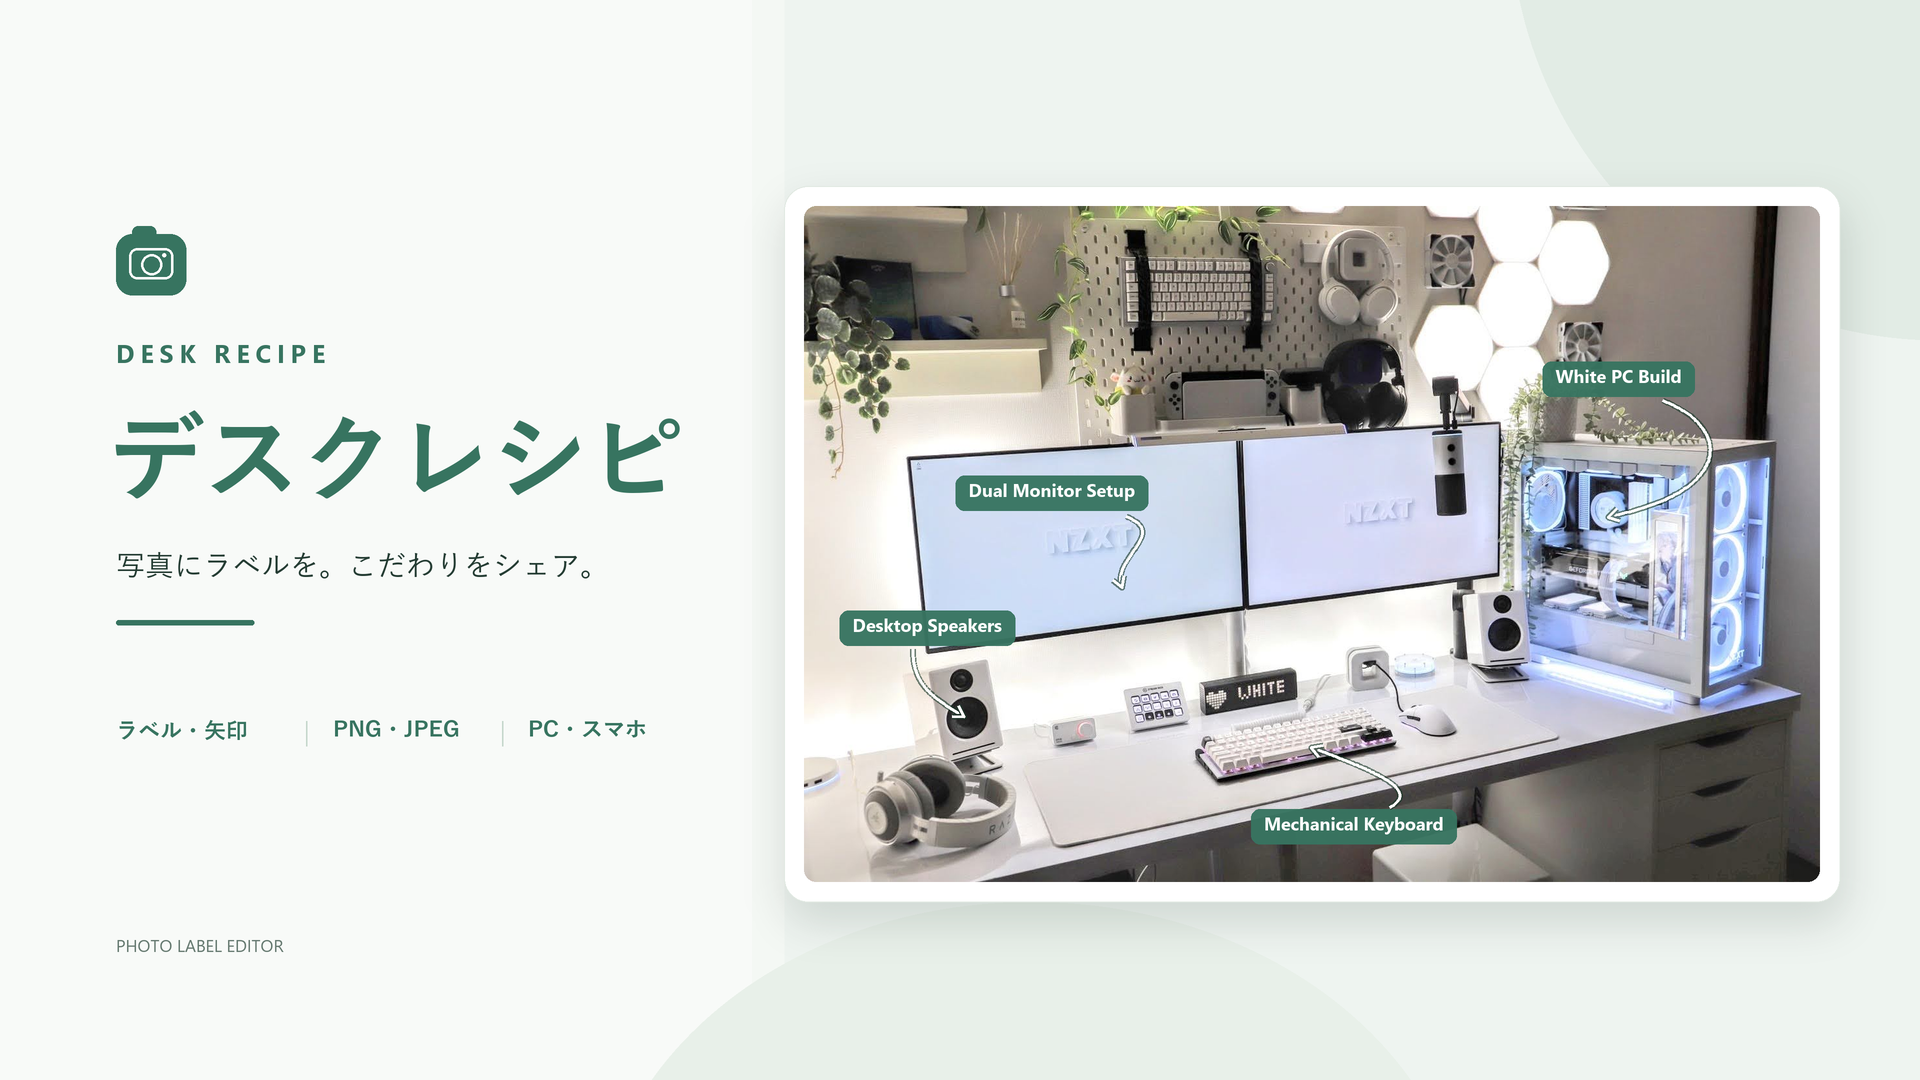
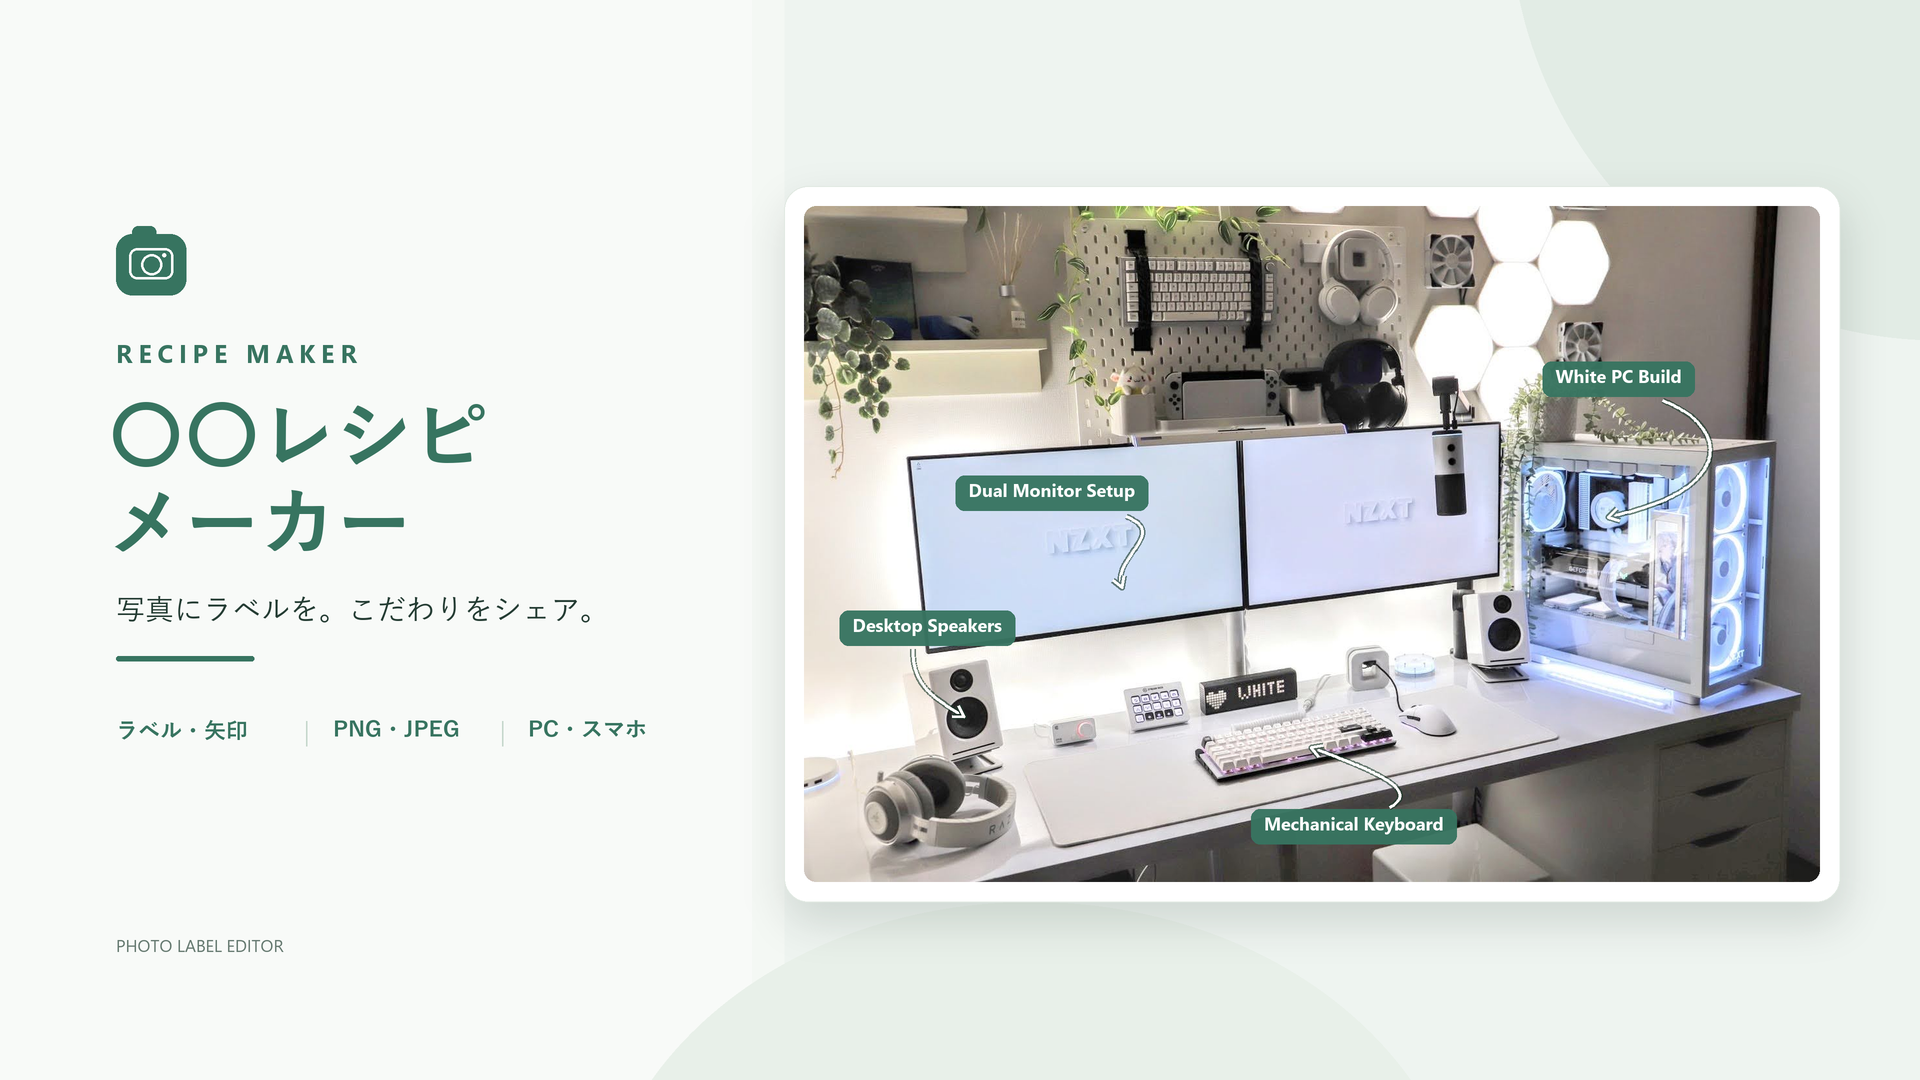
Refresh shared thumbnail with Recipe Maker branding

Changed region(s): [[0.0625, 0.3667, 0.3438, 0.6111], [0.0625, 0.3056, 0.1875, 0.3361]]

diff --git a/docs/index.html b/docs/index.html
@@ -11,13 +11,13 @@
     <meta property="og:title" content="〇〇レシピメーカー / 〇〇 Recipe Maker" />
     <meta property="og:description" content="写真にラベルを。こだわりをシェア。PC・スマートフォンでデスク写真にラベルと矢印を配置できる画像エディター。" />
     <meta property="og:url" content="https://meteor-oo0.github.io/desk-recipe/" />
-    <meta property="og:image" content="https://meteor-oo0.github.io/desk-recipe/og-non-ai.png" />
+    <meta property="og:image" content="https://meteor-oo0.github.io/desk-recipe/recipe-maker-thumbnail.png" />
     <meta property="og:image:width" content="1920" />
     <meta property="og:image:height" content="1080" />
     <meta property="og:image:alt" content="〇〇レシピメーカー：写真に製品ラベルと矢印を配置するフォトエディター" />
     <meta name="twitter:card" content="summary_large_image" />
     <meta name="twitter:title" content="〇〇レシピメーカー / 〇〇 Recipe Maker" />
-    <meta name="twitter:image" content="https://meteor-oo0.github.io/desk-recipe/og-non-ai.png" />
+    <meta name="twitter:image" content="https://meteor-oo0.github.io/desk-recipe/recipe-maker-thumbnail.png" />
     <meta
       name="description"
       content="デスク写真に製品ラベルと矢印を配置。PC・スマートフォンで編集し、PNGやJPEGで保存できる〇〇レシピメーカー。"

diff --git a/index.html b/index.html
@@ -11,13 +11,13 @@
     <meta property="og:title" content="〇〇レシピメーカー / 〇〇 Recipe Maker" />
     <meta property="og:description" content="写真にラベルを。こだわりをシェア。PC・スマートフォンでデスク写真にラベルと矢印を配置できる画像エディター。" />
     <meta property="og:url" content="https://meteor-oo0.github.io/desk-recipe/" />
-    <meta property="og:image" content="https://meteor-oo0.github.io/desk-recipe/og-non-ai.png" />
+    <meta property="og:image" content="https://meteor-oo0.github.io/desk-recipe/recipe-maker-thumbnail.png" />
     <meta property="og:image:width" content="1920" />
     <meta property="og:image:height" content="1080" />
     <meta property="og:image:alt" content="〇〇レシピメーカー：写真に製品ラベルと矢印を配置するフォトエディター" />
     <meta name="twitter:card" content="summary_large_image" />
     <meta name="twitter:title" content="〇〇レシピメーカー / 〇〇 Recipe Maker" />
-    <meta name="twitter:image" content="https://meteor-oo0.github.io/desk-recipe/og-non-ai.png" />
+    <meta name="twitter:image" content="https://meteor-oo0.github.io/desk-recipe/recipe-maker-thumbnail.png" />
     <meta
       name="description"
       content="デスク写真に製品ラベルと矢印を配置。PC・スマートフォンで編集し、PNGやJPEGで保存できる〇〇レシピメーカー。"

diff --git a/docs/sw.js b/docs/sw.js
@@ -1,4 +1,4 @@
-const CACHE='desk-recipe-1791295796089';const ASSETS=["/desk-recipe/","/desk-recipe/index.html","/desk-recipe/sample-desk.png","/desk-recipe/favicon.svg","/desk-recipe/icon-192.png","/desk-recipe/icon-512.png","/desk-recipe/manifest.json","/desk-recipe/assets/index-Dhy1XL7h.css","/desk-recipe/assets/index-Bs7ug1OW.js"];
+const CACHE='desk-recipe-1791297485875';const ASSETS=["/desk-recipe/","/desk-recipe/index.html","/desk-recipe/sample-desk.png","/desk-recipe/favicon.svg","/desk-recipe/icon-192.png","/desk-recipe/icon-512.png","/desk-recipe/manifest.json","/desk-recipe/assets/index-Dhy1XL7h.css","/desk-recipe/assets/index-Bs7ug1OW.js"];
       self.addEventListener('install',event=>{event.waitUntil(caches.open(CACHE).then(cache=>cache.addAll(ASSETS)));self.skipWaiting()});
       self.addEventListener('activate',event=>{event.waitUntil(caches.keys().then(keys=>Promise.all(keys.filter(key=>key.startsWith('desk-recipe-')&&key!==CACHE).map(key=>caches.delete(key)))).then(()=>self.clients.claim()))});
       self.addEventListener('fetch',event=>{if(event.request.method!=='GET')return;const url=new URL(event.request.url);if(url.origin!==self.location.origin)return;if(event.request.mode==='navigate'){event.respondWith(fetch(event.request).catch(()=>caches.match('/desk-recipe/index.html')));return}if(ASSETS.includes(url.pathname))event.respondWith(caches.match(event.request).then(cached=>cached||fetch(event.request)))});
